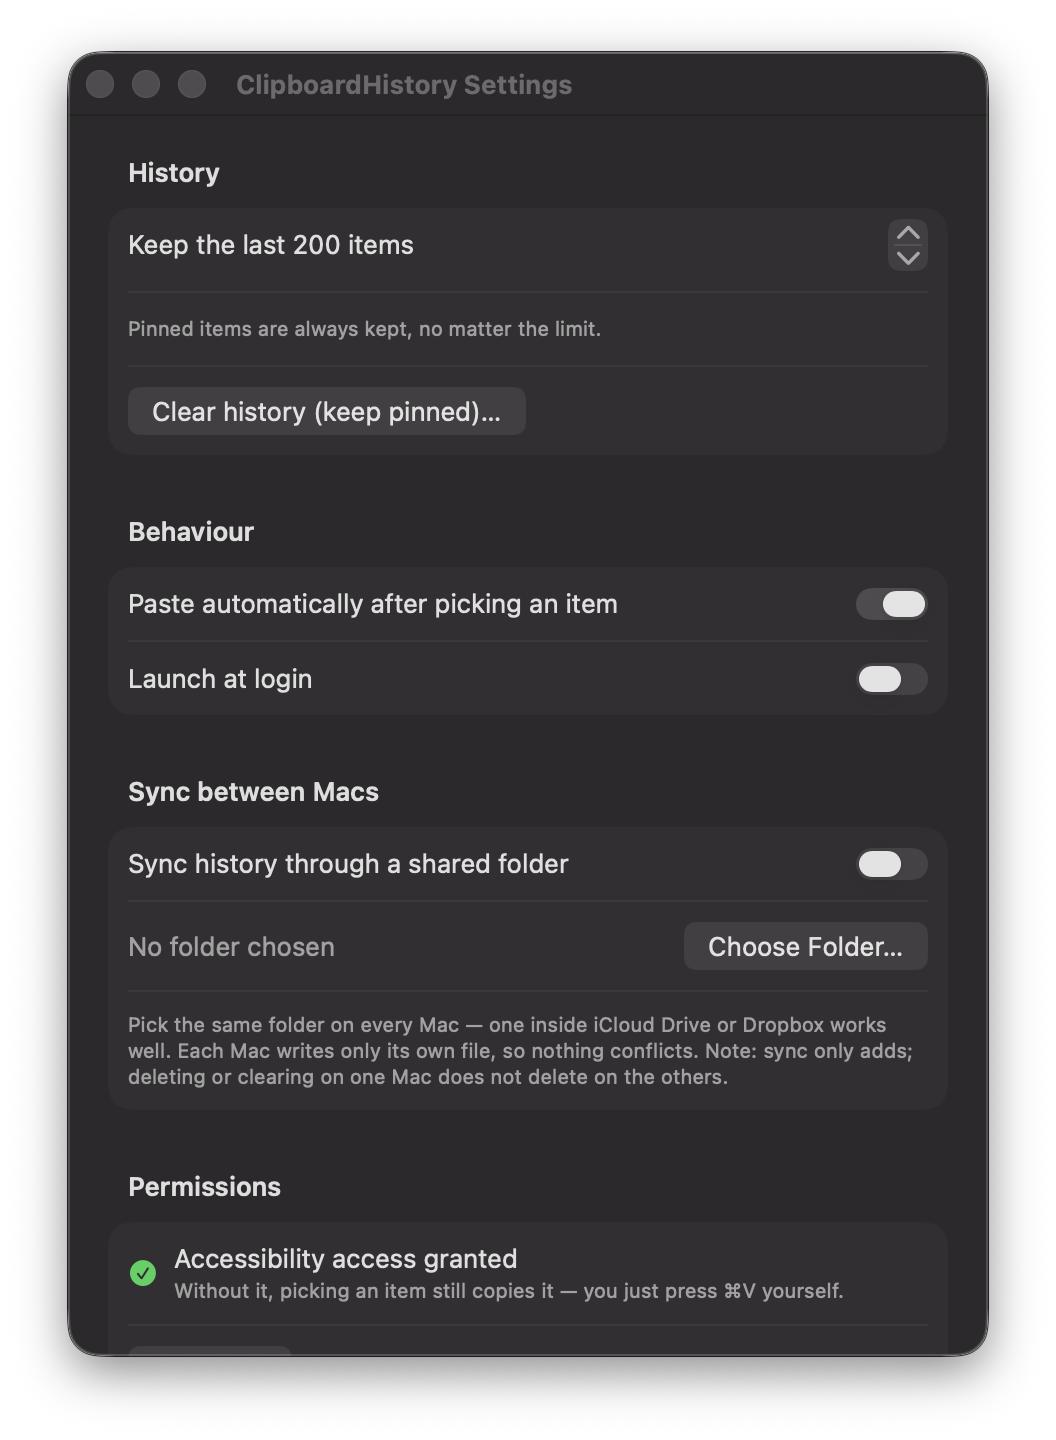
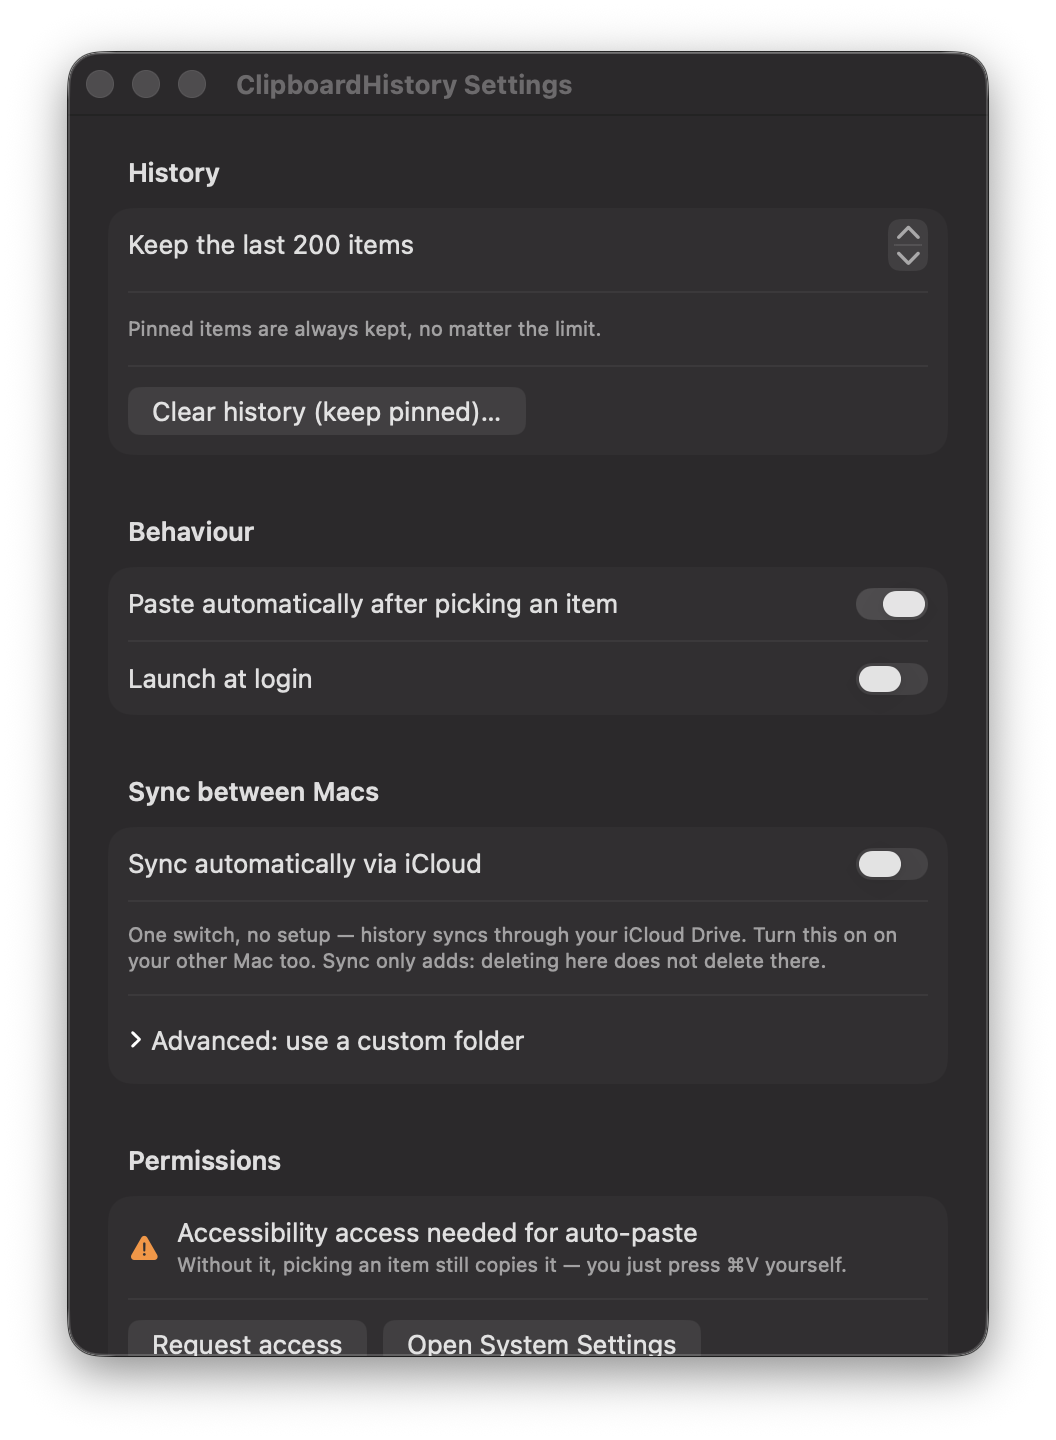
Rewrite README for end users; move developer docs
The README now reads like a product page: what it does, how to install
from the released DMG, quick tips. The code tour, design rationale and
roadmap move to docs/HOW-IT-WORKS.md. A release workflow builds and
attaches the DMG automatically whenever a version tag is pushed.

Changed region(s): [[0.125, 0.5938, 0.875, 0.75], [0.125, 0.7812, 0.8125, 0.9375]]

diff --git a/README.md b/README.md
@@ -1,125 +1,50 @@
 # ClipboardHistory
 
-A menu bar clipboard manager for macOS. Press **⌘⇧V** anywhere, search your
-recent copies, hit Enter, and it pastes into whatever app you were in.
+Every copy you make, remembered. Press **⌘⇧V** to bring up your clipboard
+history, click what you need, and it's pasted.
 
 ![The history popup](docs/screenshot-history.png)
 
-- Remembers text and images
-- Search, keyboard navigation, pinning
-- Skips anything a password manager copies
-- No Dock icon — it lives in the menu bar
-- Sync between your Macs through a shared folder (iCloud Drive, Dropbox…)
-- Everything stays on your Mac (`~/Library/Application Support/ClipboardHistory/`)
-  — the app itself never touches the network
+## What it does
 
----
+- **Remembers everything you copy** — text, links, and images
+- **Search as you type** — start typing and matches appear instantly
+- **Paste several at once** — ⌘-click a few items, press Return, they paste together
+- **Drag and drop** — drag any item from the list straight into a document
+- **Always pastes clean text** — formatting from Word, web pages, or code editors is stripped automatically
+- **Pin your favorites** — pinned items never expire
+- **Share anything** — right-click an item to send it via AirDrop, Messages, and more
+- **Syncs between your Macs** — flip one switch and iCloud keeps your history on both
+- **Private by design** — everything stays on your Mac; passwords copied from password managers are never recorded
+- **Your shortcut, your choice** — pick the key combo that suits you in Settings
 
-## Running it
+## Install
 
-1. Open `ClipboardHistory.xcodeproj` in Xcode.
-2. Press **⌘R**.
+1. Download **ClipboardHistory.dmg** from the
+   [latest release](https://github.com/kamalahmed/ClipboardHistory/releases/latest).
+2. Open it and drag **ClipboardHistory** into **Applications**.
+3. First open only: **right-click the app → Open → Open** (macOS warns about
+   apps from independent developers — this is expected).
 
-That's it — no signing setup needed, the project is configured to "sign to run
-locally". A clipboard icon appears in your menu bar; the app has no Dock icon,
-which is normal.
+The app lives in your **menu bar** (clipboard icon, top-right of the screen) —
+it has no Dock icon. On first launch it opens the history window once so you
+can see where it lives.
 
-The first time you use it, macOS will ask for **Accessibility** permission. That
-is only needed for the "press ⌘V for you" part. If you decline, picking an item
-still copies it to the clipboard and you paste manually. You can grant it later
-in Settings → Permissions.
+## Quick tips
 
-> **Note on permissions and rebuilds:** macOS ties Accessibility permission to an
-> app's code signature. Because this builds with an ad-hoc signature, you may
-> have to re-grant it after some rebuilds. Annoying, not broken.
-
-### Using it
-
-| Action | How |
+| I want to… | Do this |
 |---|---|
-| Open the popup | ⌘⇧V, or click the menu bar icon |
-| Move through results | ↑ / ↓ |
-| Paste the highlighted item | ⏎, or click a row |
-| Close | Esc, the red close button, or click elsewhere |
-| Pin / delete an item | Hover the row, or right-click it |
-| Settings | The ⚙ button in the popup, or right-click the menu bar icon |
-| Quit | Right-click the menu bar icon |
+| Open my history | **⌘⇧V**, or click the menu bar icon |
+| Paste an item | Click it, or ↑↓ then Return |
+| Paste several items | ⌘-click each one, then Return |
+| Pin / delete | Hover over the item |
+| Sync with my other Mac | ⚙ Settings → *Sync automatically via iCloud* (both Macs) |
+| Let it paste for me | Grant Accessibility when asked — optional; without it you press ⌘V yourself |
 
-### Syncing between Macs
+## For developers
 
-![The settings window](docs/screenshot-settings.png)
+Build it yourself: open `ClipboardHistory.xcodeproj` in Xcode and press ⌘R —
+no signing setup or developer account needed.
 
-Settings → *Sync between Macs* → choose the **same folder on every Mac** — a
-folder inside iCloud Drive or Dropbox works well, because the cloud service
-mirrors it between machines for you. Each Mac writes only its own file inside
-that folder (`devices/<id>.json`) and merges everyone else's, so no file ever
-has two writers and nothing conflicts. Sync only adds: deleting an item on one
-Mac does not delete it on the others.
-
----
-
-## How the code is laid out
-
-Ten small Swift files. Read them roughly in this order:
-
-| File | What it does |
-|---|---|
-| `ClipboardHistoryApp.swift` | The `@main` entry point. Declares the Settings window; hands everything else to the app delegate. |
-| `AppDelegate.swift` | Startup. Creates the menu bar icon, starts the monitor, registers the hotkey. |
-| `ClipItem.swift` | The data model for one clipboard entry, plus display helpers. |
-| `ClipboardStore.swift` | Holds the list. Saves/loads JSON, de-duplicates, pins, trims, manages image files. |
-| `ClipboardMonitor.swift` | Polls the system clipboard 2.5×/second and feeds new content to the store. |
-| `GlobalHotKey.swift` | Registers ⌘⇧V system-wide via Carbon. |
-| `PanelController.swift` | Shows/hides the floating popup window and performs the paste. |
-| `HistoryView.swift` | The SwiftUI popup: search field, list, rows, keyboard handling. |
-| `SettingsView.swift` | The settings window. |
-| `Paster.swift` | Writes to the clipboard and synthesises the ⌘V keystroke. |
-| `SyncManager.swift` | Mirrors history into a shared folder and merges other Macs' files. |
-
-### Concepts worth knowing, if Swift is new to you
-
-**`ObservableObject` / `@Published` / `@ObservedObject`.** This is SwiftUI's
-change-tracking system. `ClipboardStore` is an `ObservableObject` whose `items`
-array is `@Published`. Any view holding it as `@ObservedObject` automatically
-redraws when `items` changes. You never write "reload the list" code.
-
-**`@State` and `@FocusState`.** View-local memory. Normally a SwiftUI view is
-a throwaway description that gets rebuilt constantly, so plain variables would
-be reset every redraw; `@State` survives. `@FocusState` is the same idea for
-"where is the keyboard cursor".
-
-**`@AppStorage`.** A property wrapper over `UserDefaults`. Read and write it like
-a normal variable; it persists to disk and triggers redraws.
-
-**Optionals (`String?`, `if let`, `guard let`, `try?`).** Swift makes "might be
-missing" part of the type. `if let x = maybeX { }` unwraps it safely; `guard let`
-does the same but bails out early; `try?` turns a throwing call into an optional.
-
-**`[weak self]` in closures.** Prevents a retain cycle — the timer holds the
-closure, the closure would hold the monitor, the monitor holds the timer. `weak`
-breaks the loop so things can be deallocated.
-
-**Why AppKit shows up at all.** SwiftUI still can't express "a borderless
-floating panel that appears under the mouse, takes keyboard focus, and vanishes
-when you click away". So the window itself is an `NSPanel` (AppKit) whose
-contents are a SwiftUI view, glued together by `NSHostingView`.
-
----
-
-## Things worth building next
-
-- **A shortcut recorder** so ⌘⇧V isn't hard-coded. This is the most-requested
-  feature in every clipboard manager and a good exercise in event handling.
-- **Exclude apps** — never record from your password manager, Terminal, etc.
-- **Fuzzy search** instead of substring matching.
-- **Snippets**: pinned items with a keyword you can type to expand.
-- **A "clear after N minutes" timer** for anything that looks like a secret.
-- **Rich text** — currently everything is flattened to plain text.
-
-## Known rough edges
-
-- Polling every 0.4s is how all clipboard managers work, but it means a copy can
-  take up to 0.4s to appear.
-- Password-manager filtering relies on apps marking their clipboard writes as
-  concealed. Most do; not all.
-- The history JSON is not encrypted. It's readable by anything running as you.
+Curious how it works? Read **[docs/HOW-IT-WORKS.md](docs/HOW-IT-WORKS.md)** —
+a guided tour of the code, written for people new to Swift.

diff --git a/docs/HOW-IT-WORKS.md b/docs/HOW-IT-WORKS.md
@@ -1,0 +1,108 @@
+# How ClipboardHistory works
+
+A guided tour of the code — written for readers who are new to Swift or macOS
+development. The whole app is eleven small files.
+
+## The big picture
+
+```
+ClipboardMonitor  →  ClipboardStore  →  HistoryView (inside an NSPanel)
+     (watches)          (remembers)          (shows & pastes)
+```
+
+A timer watches the system clipboard. New content goes into a store that
+saves everything to disk. A floating panel shows the list when you press the
+hotkey. Three supporting pieces: a Carbon hotkey, a paste helper, and a sync
+engine.
+
+## File by file
+
+| File | What it does |
+|---|---|
+| `ClipboardHistoryApp.swift` | The `@main` entry point. Hands everything to the app delegate. |
+| `AppDelegate.swift` | Startup: menu bar icon, hotkey registration, first-launch behavior, the settings window. |
+| `ClipItem.swift` | The data model for one clipboard entry, plus display helpers. |
+| `ClipboardStore.swift` | Holds the list. Saves/loads JSON, de-duplicates, pins, trims, merges sync data. |
+| `ClipboardMonitor.swift` | Polls the clipboard 2.5×/second and feeds new content to the store. |
+| `GlobalHotKey.swift` | Registers the global shortcut via Carbon; defines the preset combos. |
+| `PanelController.swift` | Shows/hides the floating popup and performs single- and multi-paste. |
+| `HistoryView.swift` | The SwiftUI popup: search, list, multi-select, drag-and-drop, sharing. |
+| `SettingsView.swift` | The settings window, including one-switch iCloud sync. |
+| `Paster.swift` | Writes to the clipboard and synthesises the ⌘V keystroke. |
+| `SyncManager.swift` | Mirrors history into a shared folder and merges other Macs' files. |
+
+## Why it's built the way it is
+
+**Polling, not notifications.** macOS has no "clipboard changed" event. Every
+clipboard manager polls `NSPasteboard.changeCount` — an integer that
+increments on each copy. Comparing an integer 2.5×/second is effectively free;
+content is only read when the number moves.
+
+**Plain text on purpose.** The monitor reads the pasteboard's plain-string
+flavour, so all formatting (fonts, colors, HTML) is stripped at capture time.
+That's why pasting from the app always produces clean text.
+
+**An AppKit panel around a SwiftUI view.** SwiftUI still can't express "a
+floating panel under the mouse that takes keyboard focus and vanishes on
+click-away", so the window is an `NSPanel` whose contents are SwiftUI, glued
+by `NSHostingView`.
+
+**Carbon for the hotkey.** `RegisterEventHotKey` is ancient but it's the only
+global-shortcut API that needs no Accessibility permission. Accessibility is
+only requested for the optional auto-paste keystroke.
+
+**Sync without a server.** Every Mac writes only its own file
+(`devices/<id>.json`) inside the shared folder and merges everyone else's by
+content hash. No file ever has two writers, so cloud services never see a
+conflict. iCloud Drive (or Dropbox) does the transport; the app itself has no
+networking code at all. "One switch" iCloud sync works because iCloud Drive
+lives at the same path on every Mac
+(`~/Library/Mobile Documents/com~apple~CloudDocs`).
+
+**De-duplication by content hash.** Each entry stores a SHA-256 of its
+content. Copying the same thing twice bumps the existing entry to the top;
+the same trick makes sync merges idempotent.
+
+## Swift concepts worth knowing, if the language is new to you
+
+**`ObservableObject` / `@Published` / `@ObservedObject`.** SwiftUI's
+change-tracking. `ClipboardStore.items` is `@Published`; any view observing
+the store redraws automatically. There is no "reload the list" code anywhere.
+
+**`@State` and `@FocusState`.** View-local memory that survives SwiftUI's
+constant view rebuilding. `@FocusState` is the same idea for "where is the
+keyboard cursor".
+
+**`@AppStorage`.** A property wrapper over `UserDefaults`: read/write it like
+a variable, it persists and triggers redraws.
+
+**Optionals (`String?`, `if let`, `guard let`, `try?`).** "Might be missing"
+is part of the type system. `guard let` unwraps or bails out early; `try?`
+turns a throwing call into an optional.
+
+**`[weak self]` in closures.** Breaks retain cycles between long-lived objects
+(timers, callbacks) and the objects that own them.
+
+## Known rough edges
+
+- A copy can take up to 0.4s to appear (the polling interval).
+- Password-manager filtering relies on apps marking their copies as concealed
+  (the `org.nspasteboard.*` convention). Most do; not all.
+- The history JSON is not encrypted — it's readable by anything running as
+  your user.
+- Sync only adds: deletions don't propagate between Macs.
+- Accessibility permission must be re-granted after rebuilds, because ad-hoc
+  code signatures change on every build.
+
+## Roadmap
+
+- **Direct Mac-to-Mac sync** over the local network (Bonjour discovery, no
+  cloud at all) — needs a proper pairing/trust design and two machines to
+  test against.
+- **CloudKit sync** once the app is signed with a paid developer account:
+  push-based, near-instant, zero-setup.
+- **Multiple lists / boards** for organising snippets by project.
+- **A free-form shortcut recorder** instead of preset combos.
+- **Exclude apps** — never record from chosen apps.
+- **Fuzzy search** instead of substring matching.
+- **Clear-after-N-minutes** for anything that looks like a secret.
